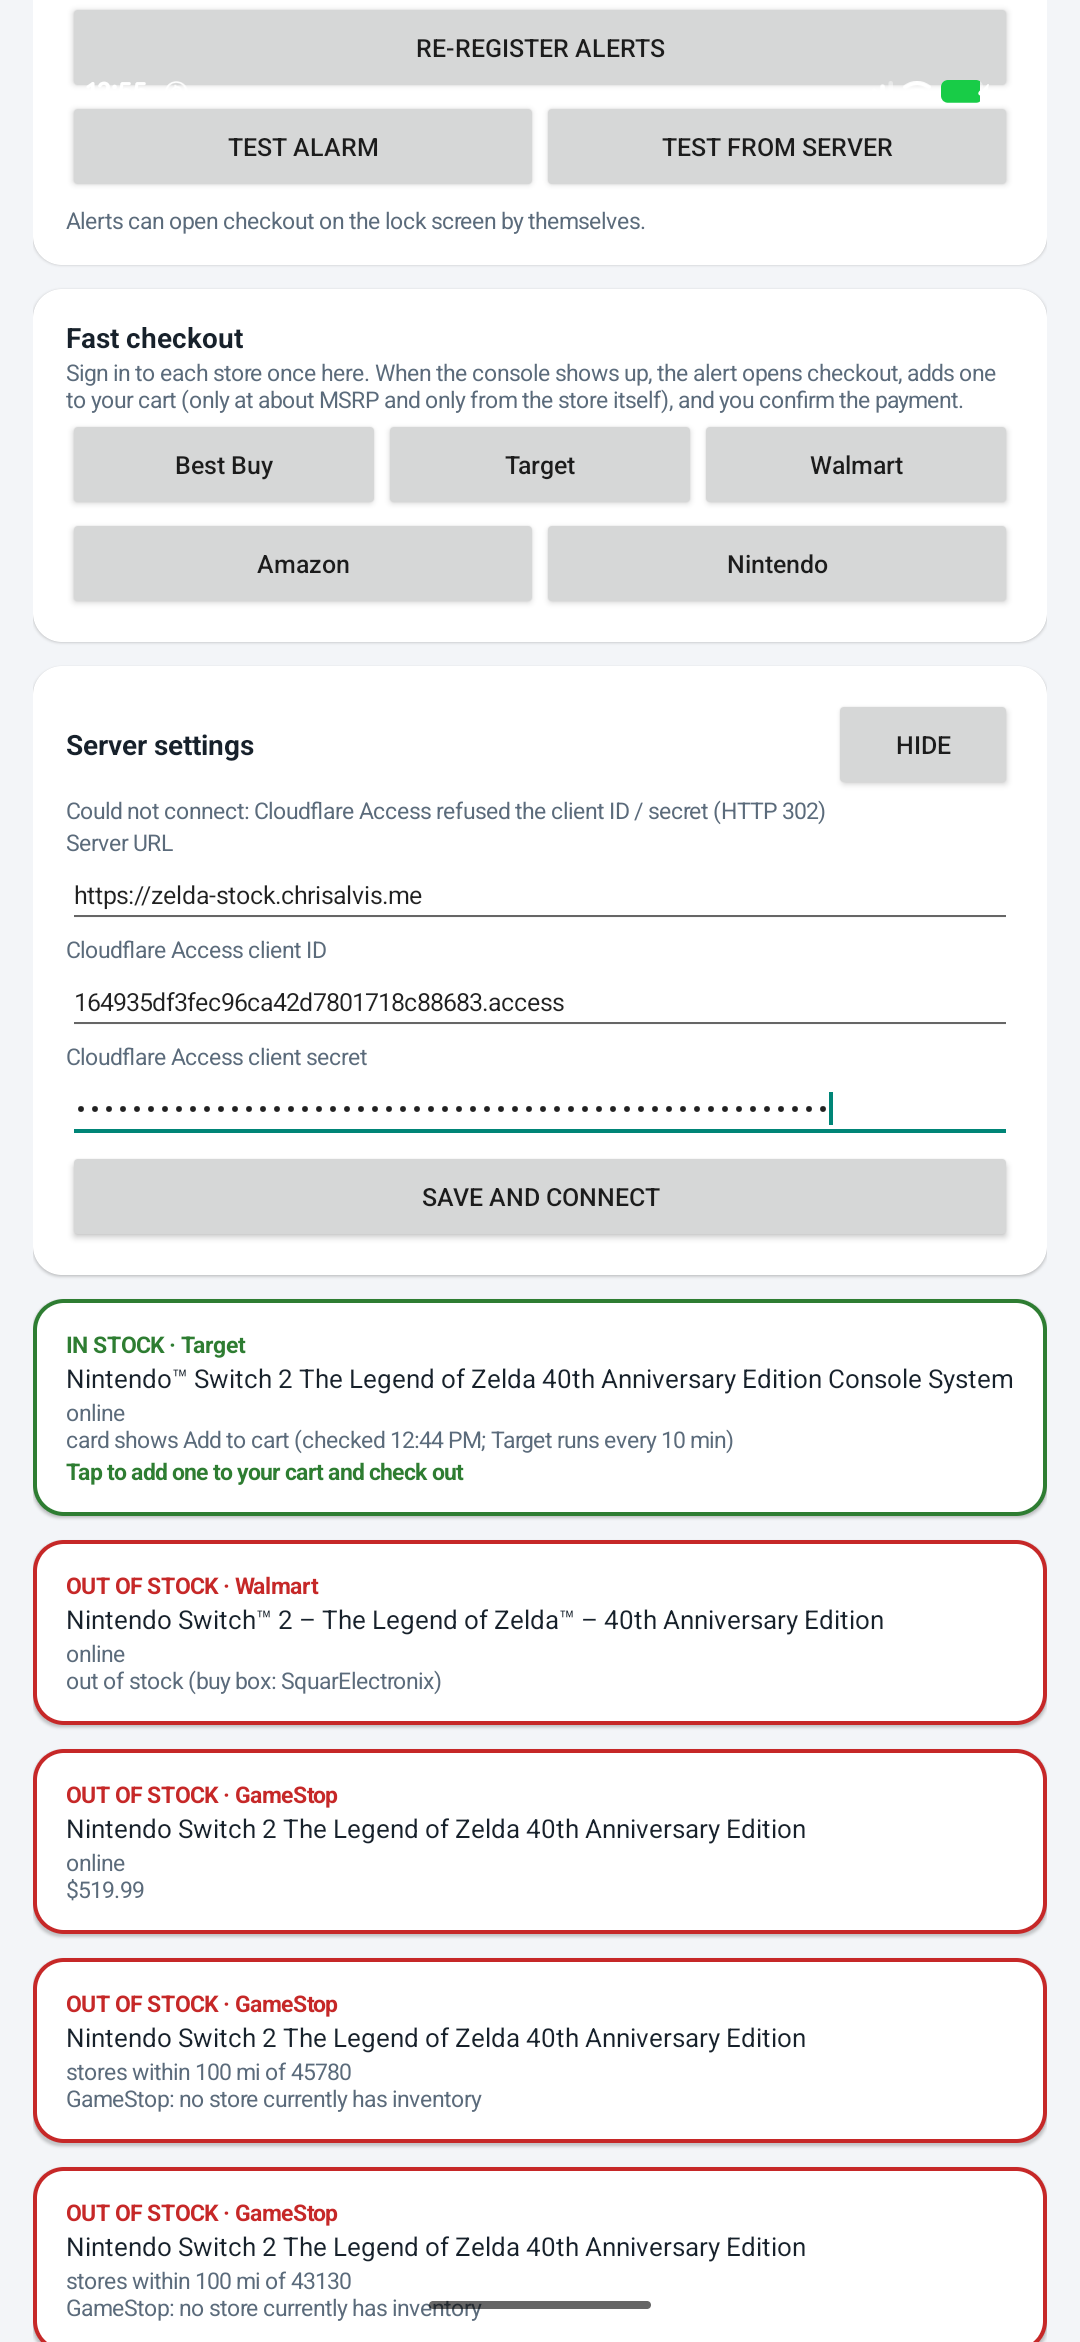
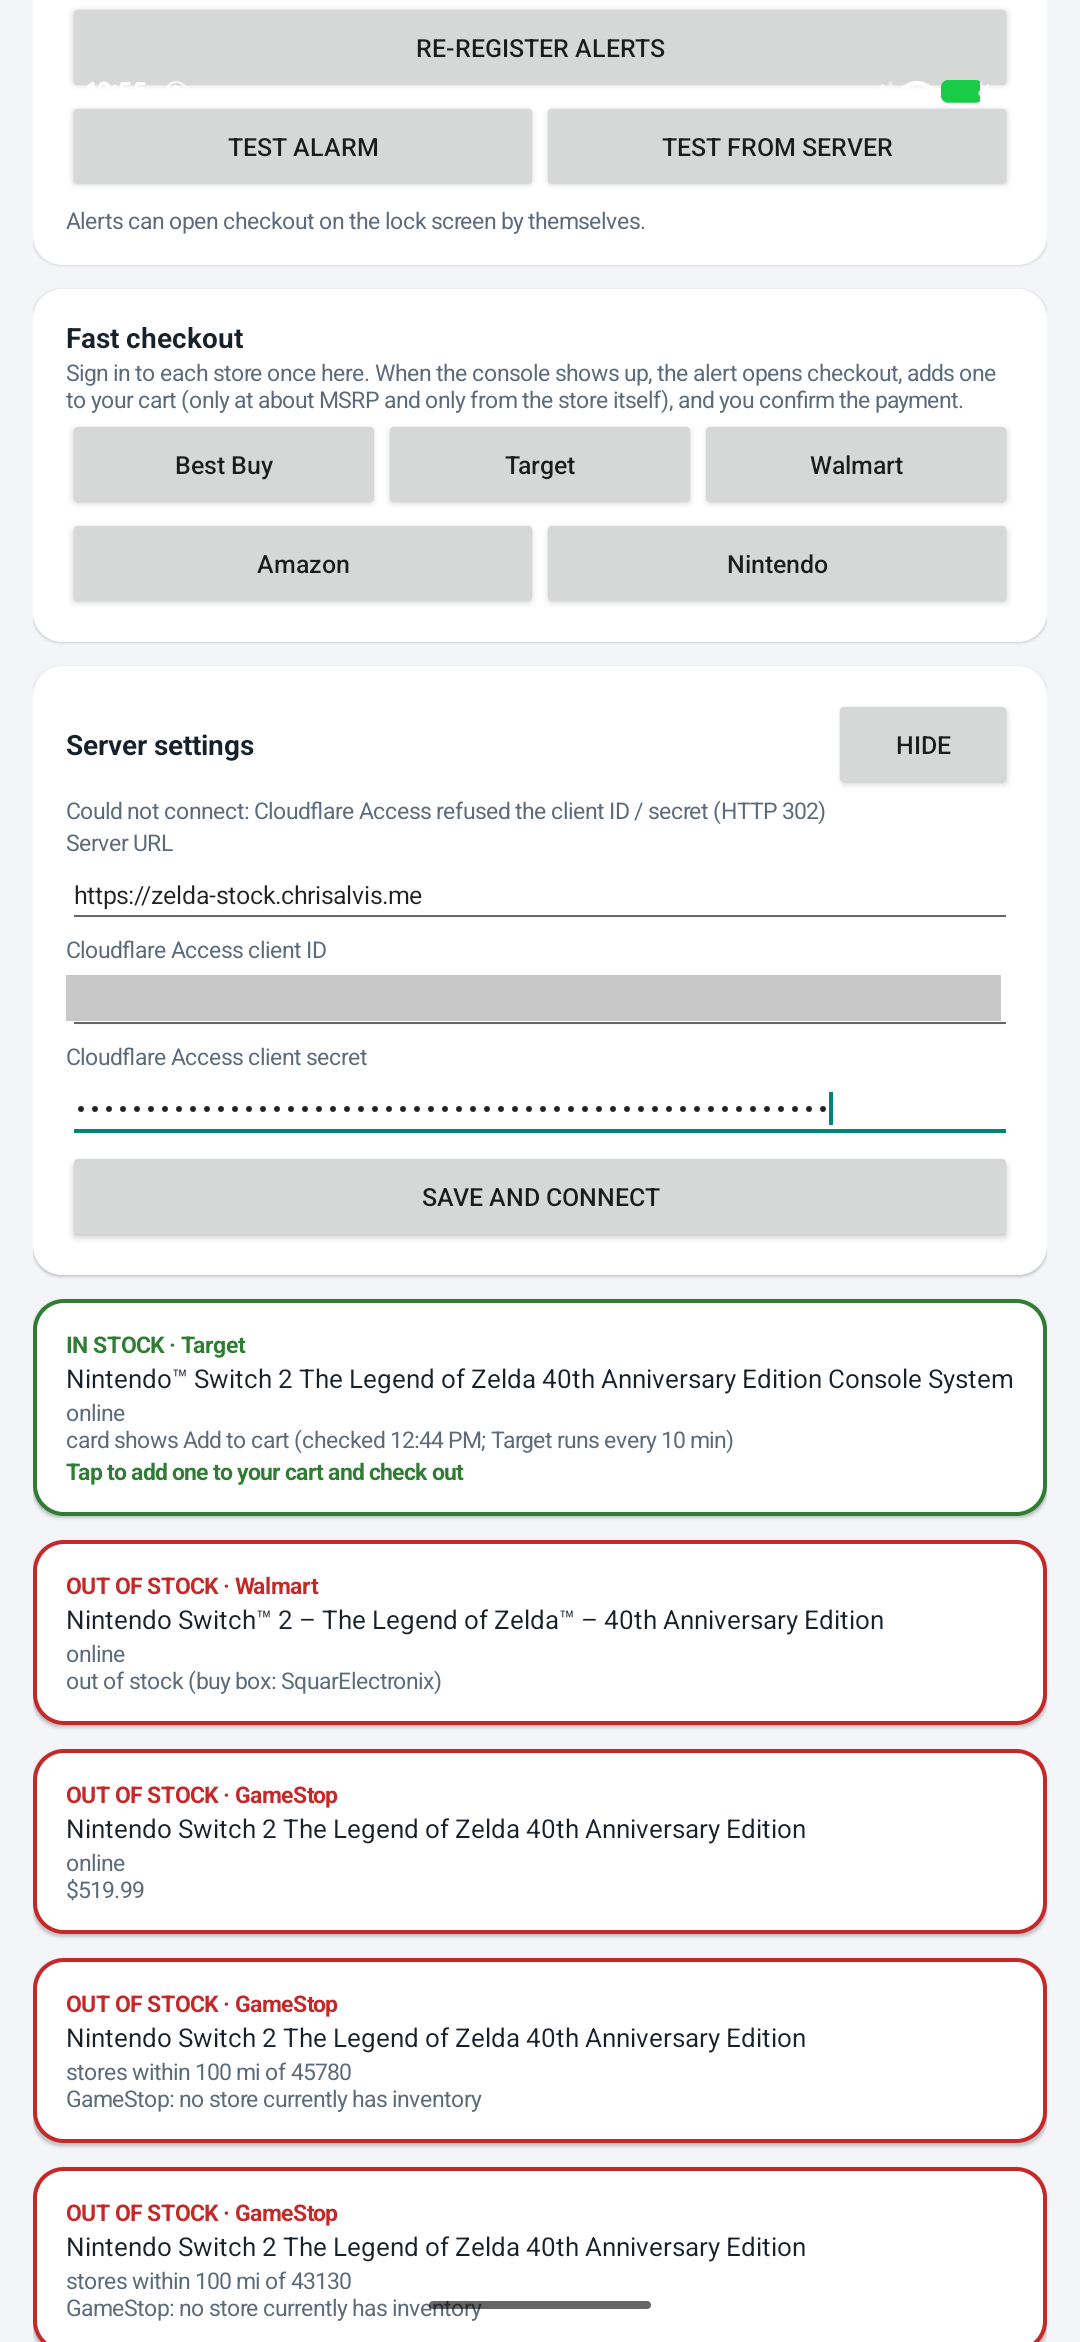
Test reports: index with current state; blank a Cloudflare Access client ID in a T12 screenshot
Claude-Session: https://claude.ai/code/session_012XrMzBebCRRKzbhJeB4vuv

Changed region(s): [[0.0611, 0.4052, 0.9472, 0.4364]]

diff --git a/docs/test-reports/README.md b/docs/test-reports/README.md
@@ -1,0 +1,40 @@
+# Phone test reports
+
+Pixel 11 Pro Fold, Android 17. All runs on 2026-11-01. The reports are in the order they were written, and later ones supersede earlier results. This page has the current state.
+
+| Report | What it covers |
+|---|---|
+| [phone-2026-11-01.md](phone-2026-11-01.md) | Full plan T1–T16 on v1.0.28 (the baseline, with the original failures) |
+| [target-signin-2026-11-01.md](target-signin-2026-11-01.md) | Why Target sign-in hung (passkey API missing in the WebView) and the fix |
+| [phone-2026-11-01-T9-rerun.md](phone-2026-11-01-T9-rerun.md) | T9 (restock → add to cart) at Best Buy and Target, v1.0.39 → v1.0.45 |
+| [phone-2026-11-01-fixes-rerun.md](phone-2026-11-01-fixes-rerun.md) | T5, T10, T13 and the notification surprises, v1.0.45 → v1.0.48 |
+| [phone-2026-11-01-other-stores.md](phone-2026-11-01-other-stores.md) | Assisted add at Walmart, Amazon and Nintendo, v1.0.48 → v1.0.54 |
+
+Evidence (screenshots, timelines, dumps) is in the folder with the same name as each report.
+
+## Current state (last tested on v1.0.54)
+
+| Area | State | Last checked |
+|---|---|---|
+| Push alerts (UnifiedPush/ntfy), Doze, server status notifications | pass | v1.0.28 |
+| Restock alert opens Checkout over the lock screen | pass, ~3.5 s from the API call | v1.0.54 |
+| Repeat alert for the same store; several alerts at once | pass | v1.0.45 |
+| Alarm with the Pixel Watch connected | Checkout plays its own alarm (pass). The plain TEST ALARM notification is still muted by the watch (left as is, owner's choice) | v1.0.45 |
+| Full-screen permission after an update | updates to 1.0.28–1.0.45 reset it to deny; the app now posts "Allow full-screen alerts again" and clears it once allowed. Updates to 1.0.51 and 1.0.54 didn't reset it | v1.0.54 |
+| Offline | pass ("no internet connection", last results kept). The baseline's T13 result was likely invalid: airplane mode kept Wi-Fi on | v1.0.45 |
+| Best Buy add | pass ($22.99) | v1.0.48 |
+| Target add (and sign-in) | pass ($14.99) | v1.0.48 |
+| Walmart add | pass ($6.88) | v1.0.54 |
+| Amazon add | adds and the seller check passes, but the guard quoted the list price ($10.05 vs $9.49). Fixed in 4ca6aa9, **not yet retested** | v1.0.54 |
+| Nintendo add | pass ($6.99) | v1.0.48 |
+| Guards: price over $560, third-party seller, sold-out page | pass | v1.0.48 |
+
+Minor, open:
+- When an alert reuses an already-open Checkout, the status bar shows the previous run's "added…" for a few seconds.
+- After a locked repeat alert, that store's notification can stay in the shade while Checkout is showing.
+
+## Notes for whoever runs the next test
+
+- Never commit account details. Screenshots of signed-in pages are blanked where they show a name with an address, a phone number or an email. Cart screenshots that show the owner's own items are left out.
+- Every PNG here was OCR-checked on 2026-11-01 for credentials and contact details. One Cloudflare Access client ID was found and blanked (`phone-2026-11-01/T12-1-wrong-secret.png`). It is still in the git history of commit fcfefe4.
+- The phone's unlock PIN is never written anywhere in the repo.
